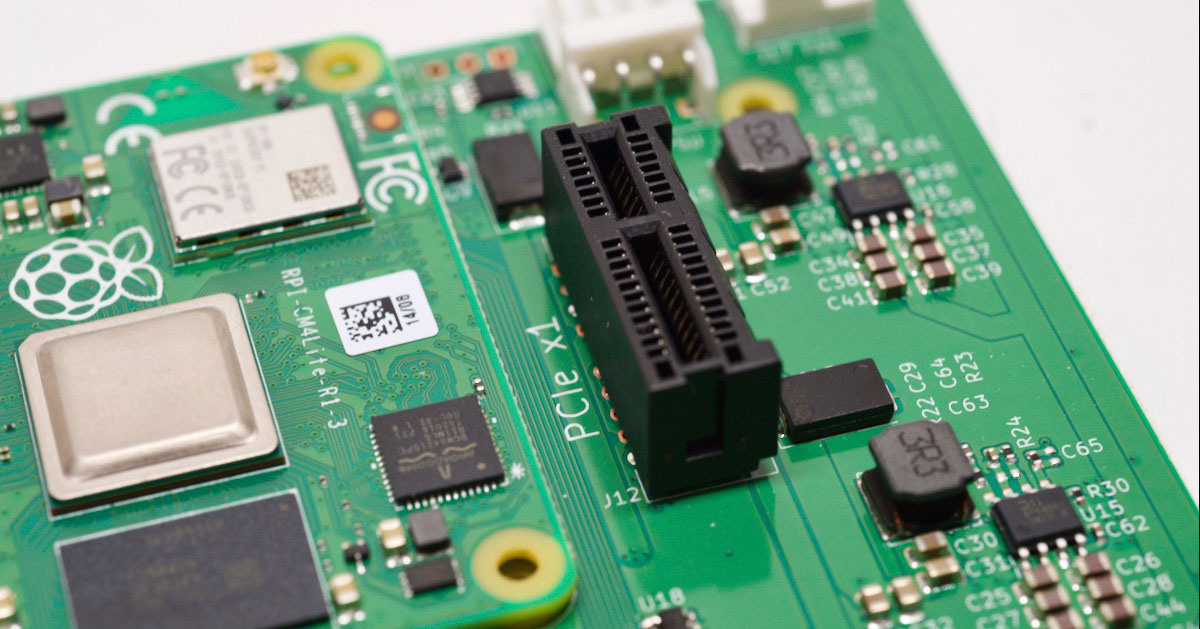
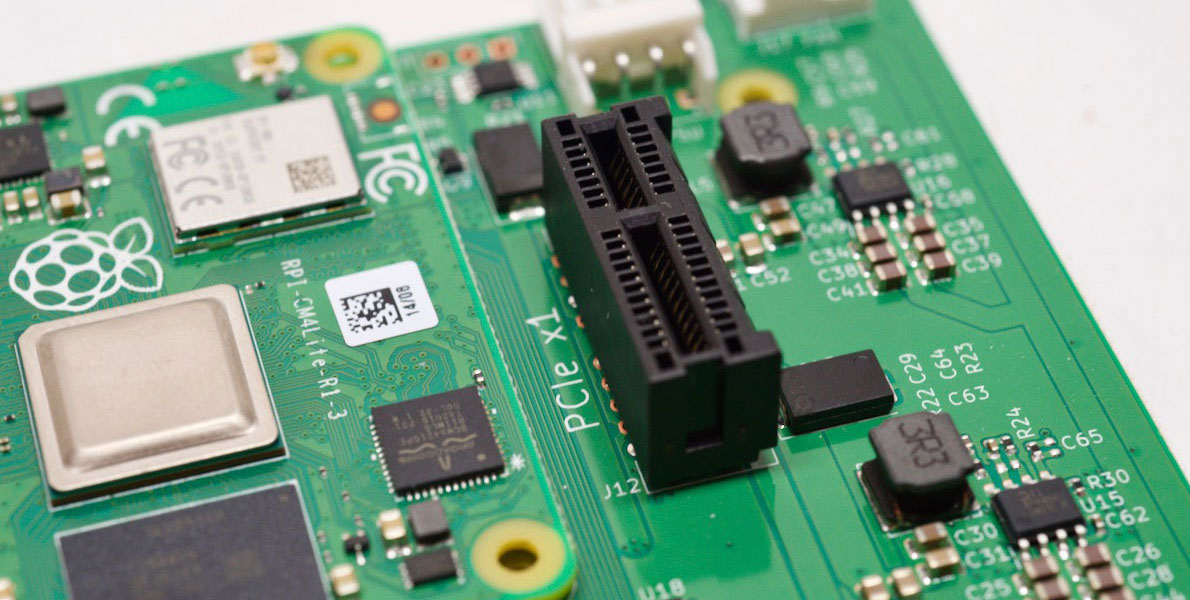
Fix dimensions of first image on home page.

diff --git a/index.md b/index.md
@@ -1,6 +1,6 @@
 The Raspberry Pi Compute Module 4 IO Board exposes the Pi's PCI Express 1x lane directly on the board:
 
-<img src="{{ site.url }}/images/cm4-io-board-pcie-slot.jpeg" style="display: block; margin: auto;" width="600" height="315" />
+<img src="{{ site.url }}/images/cm4-io-board-pcie-slot.jpeg" style="display: block; margin: auto;" width="595" height="300" />
 
 I'm on a mission to test out these and _many_ more PCIe cards on the Pi, and see what works, what doesn't, and what I can learn.
 
